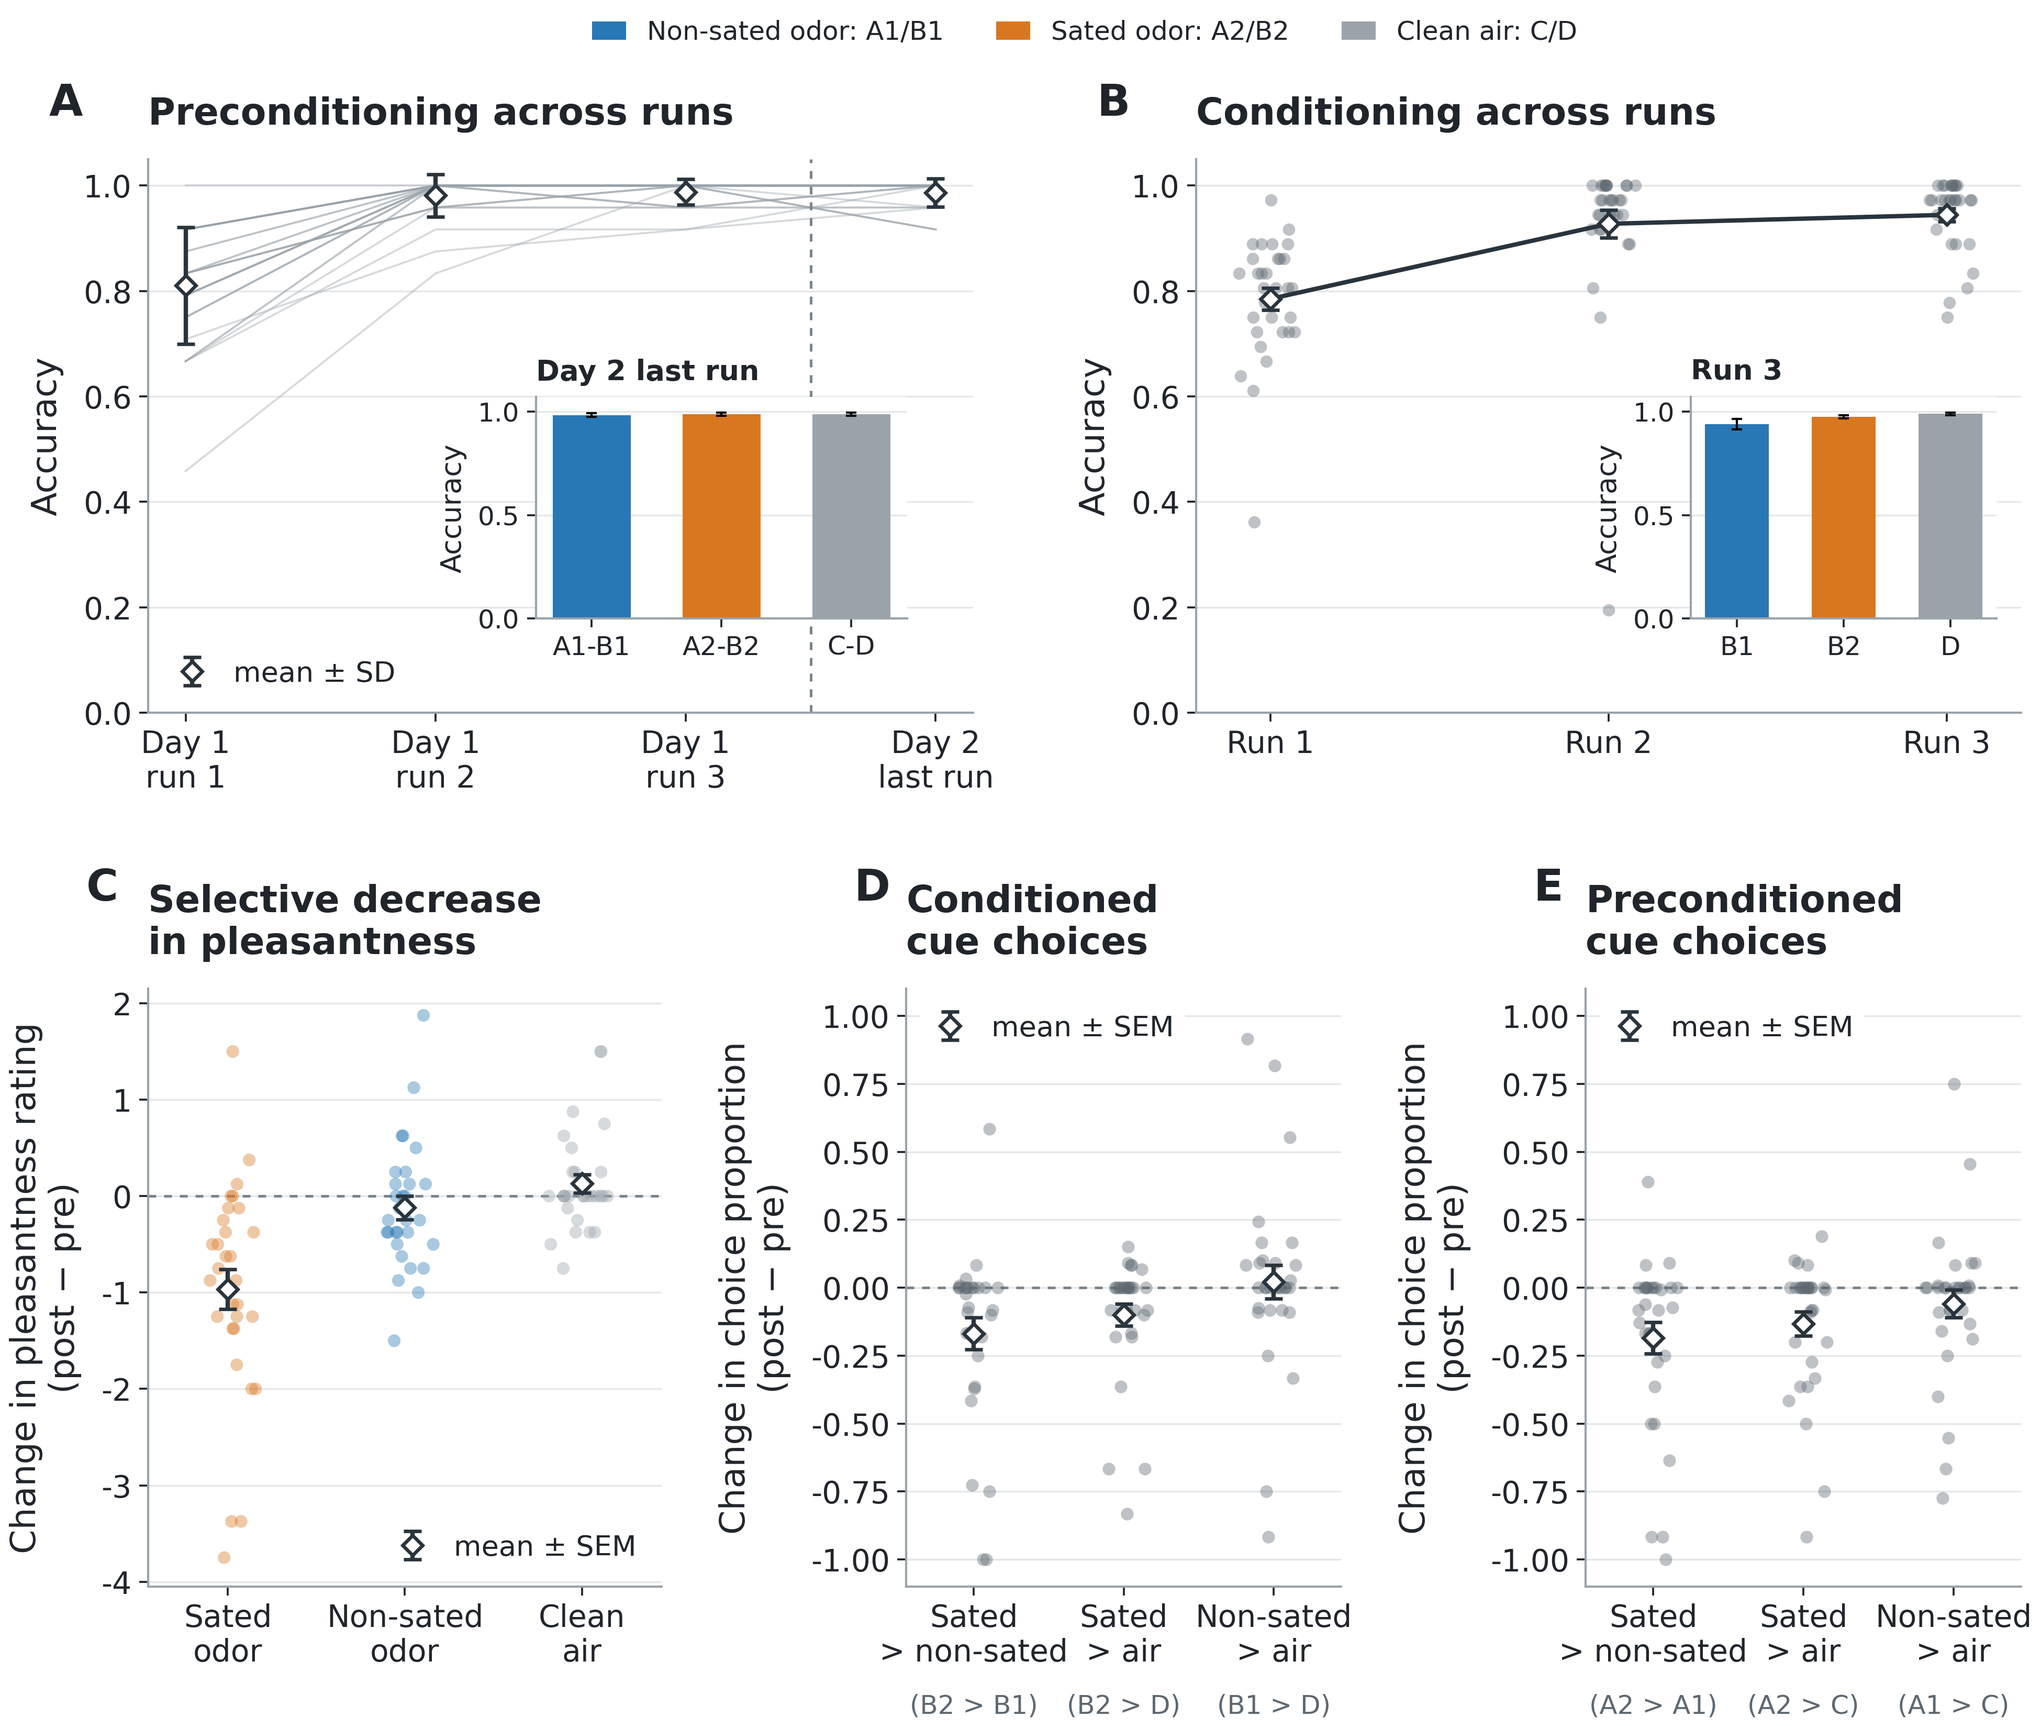
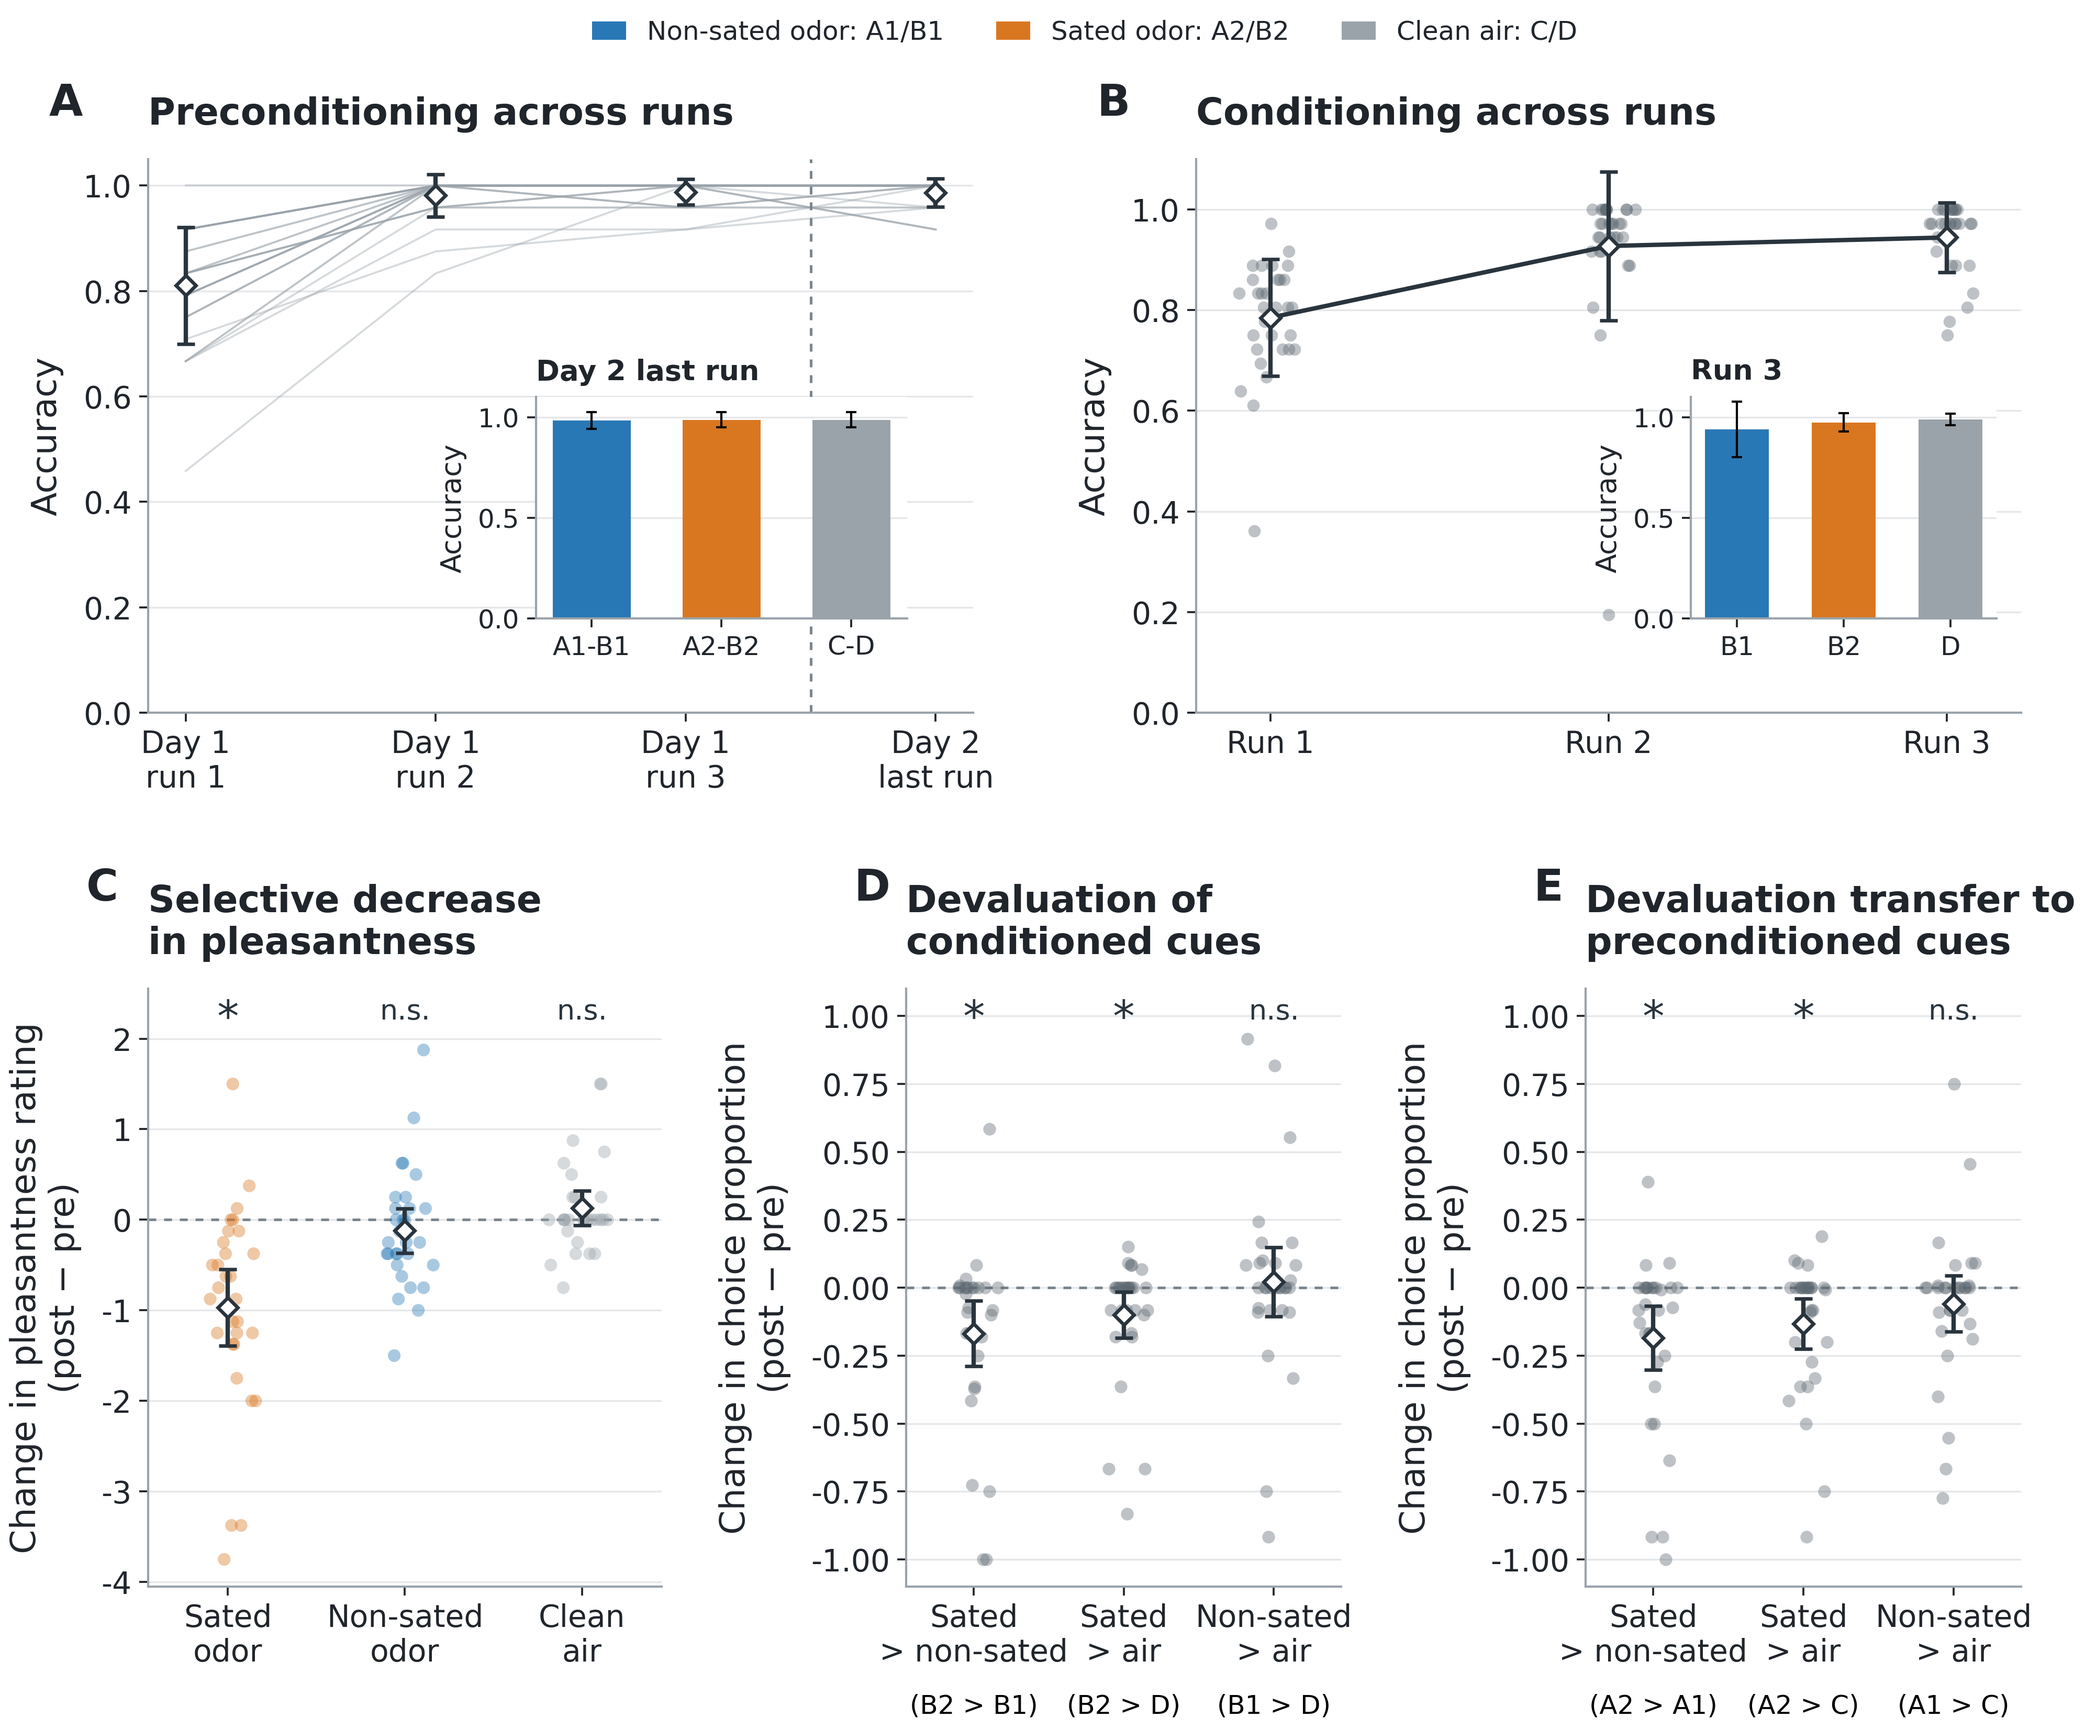
Clarify behavioral figure uncertainty and significance
Use SD bars for A/B and their insets, and t-based 95% confidence intervals with two-sided Wilcoxon markers for C-E. Add conceptual devaluation titles, darken cue-code labels, remove summary legends, and regenerate PNG/PDF exports.

diff --git a/scripts_behavior/make_behavior_figure.py b/scripts_behavior/make_behavior_figure.py
@@ -9,7 +9,8 @@ The calculations follow analyze_precond.ipynb (A), analyze_conditioning.ipynb
 19, 31, and 33 are excluded before aggregation. Missing pleasantness files
 are reported separately; they do not remove subjects from other panels.
 
-A displays mean +/- SD; its inset and all other panels display mean +/- SEM.
+Panels A/B and their insets display mean +/- SD.
+Panels C-E display means with t-based 95% confidence intervals.
 Day 2 preconditioning uses the notebook's final-run correction (run 7 takes
 precedence over run 6; both are recoded to run 1). The preconditioning inset
 averages the two pairs within each pair group with equal weight. Conditioning
@@ -23,6 +24,9 @@ sated (A2/B2), gray = clean air (C/D). They do not encode learning route.
 Panels D/E use neutral points and descriptive comparison labels, retaining
 the analysis cue codes underneath. Negative changes indicate reduced choice
 of the cue named before ">", independently of stimulus presentation order.
+Panels C-E annotate two-sided Wilcoxon signed-rank tests of post-minus-pre
+changes against zero: * denotes uncorrected p < 0.05; otherwise n.s.
+Changes are rounded to 12 decimal places for ranks to preserve numerical ties.
 """
 
 from __future__ import annotations
@@ -44,10 +48,11 @@ import matplotlib.pyplot as plt
 from matplotlib.patches import Patch
 import numpy as np
 import pandas as pd
+from scipy import stats
 
 sys.path.insert(0, str(Path(__file__).resolve().parents[1]))
 from figure_style import (
-    INSET_LABEL_SIZE, INSET_TICK_SIZE, MUTED_TEXT_COLOR, REFERENCE_COLOR,
+    INSET_LABEL_SIZE, INSET_TICK_SIZE, MUTED_TEXT_COLOR, NOTE_SIZE, REFERENCE_COLOR,
     SPINE_COLOR, SUMMARY_COLOR, add_panel_header, configure_matplotlib, style_axis,
 )
 
@@ -176,40 +181,67 @@ def _summary(data: pd.DataFrame, order: tuple) -> pd.DataFrame:
     return data.groupby("category")["value"].agg(["count", "mean", "std", "sem"]).loc[list(order)]
 
 
+def _change_tests(data: pd.DataFrame, order: tuple) -> pd.DataFrame:
+    """Test each category's paired change against zero, without correction."""
+    results = []
+    for category in order:
+        values = data.loc[data["category"].eq(category), "value"].to_numpy(dtype=float)
+        # Subtraction can otherwise split ties in discrete choice proportions.
+        ranked_values = np.round(values, decimals=12)
+        if np.all(ranked_values == 0):
+            statistic, p_value = 0.0, 1.0
+        else:
+            result = stats.wilcoxon(ranked_values, alternative="two-sided")
+            statistic, p_value = float(result.statistic), float(result.pvalue)
+        if not np.isfinite(p_value):
+            raise ValueError(f"Nonfinite Wilcoxon p-value for category {category}")
+        results.append({
+            "category": category, "n": len(values), "W": statistic,
+            "p_uncorrected": p_value, "marker": "*" if p_value < 0.05 else "n.s.",
+        })
+    return pd.DataFrame(results).set_index("category")
+
+
 def _bar_inset(
     ax: plt.Axes, data: pd.DataFrame, order: tuple, title: str,
     *, outcome_order: tuple[int, ...],
 ) -> None:
     summary = _summary(data, order)
     x = np.arange(len(order))
-    ax.bar(x, summary["mean"], yerr=summary["sem"], width=0.6,
+    ax.bar(x, summary["mean"], yerr=summary["std"], width=0.6,
            color=[OUTCOME_COLORS[odor] for odor in outcome_order],
            capsize=2.5, error_kw={"elinewidth": 1})
-    ax.set(xticks=x, xticklabels=order, ylim=(0, 1.07), yticks=[0, 0.5, 1], ylabel="Accuracy")
+    ax.set(xticks=x, xticklabels=order, ylim=(0, 1.1), yticks=[0, 0.5, 1], ylabel="Accuracy")
     ax.set_title(title, loc="left", fontsize=INSET_LABEL_SIZE, pad=8)
     style_axis(ax, inset=True)
 
 
 def _plot_changes(
     ax: plt.Axes, data: pd.DataFrame, order: tuple, labels: tuple,
-    title: str, ylabel: str, ylim: tuple[float, float], *, legend_loc: str = "upper left",
+    title: str, ylabel: str, ylim: tuple[float, float], *,
     colors: dict | None = None,
 ) -> None:
     summary = _summary(data, order)
+    ci_half_width = stats.t.ppf(0.975, summary["count"] - 1) * summary["sem"]
     positions = data["category"].map({label: i for i, label in enumerate(order)}).to_numpy(dtype=float)
     jitter = np.random.default_rng(0).normal(0, 0.08, size=len(data))
     point_colors = data["category"].map(colors) if colors is not None else MUTED_TEXT_COLOR
     ax.scatter(positions + jitter, data["value"], color=point_colors, alpha=0.4,
                s=34, linewidths=0, zorder=2)
-    ax.errorbar(np.arange(len(order)), summary["mean"], yerr=summary["sem"],
+    ax.errorbar(np.arange(len(order)), summary["mean"], yerr=ci_half_width,
                 fmt="D", color=SUMMARY_COLOR, markersize=6.5, capsize=4,
                 markerfacecolor="white", markeredgecolor=SUMMARY_COLOR, markeredgewidth=1.6,
-                linewidth=2, label="mean ± SEM", zorder=3)
+                linewidth=2, zorder=3)
+    tests = _change_tests(data, order)
+    for x, category in enumerate(order):
+        marker = tests.loc[category, "marker"]
+        ax.text(x, 0.985, marker, transform=ax.get_xaxis_transform(),
+                ha="center", va="top", fontsize=20 if marker == "*" else NOTE_SIZE,
+                color=SUMMARY_COLOR)
     ax.axhline(0, color=REFERENCE_COLOR, linestyle=(0, (3, 3)), linewidth=1.2, zorder=1)
     ax.set(xticks=np.arange(len(order)), xticklabels=labels, ylabel=ylabel,
            ylim=ylim, xlim=(-0.45, len(order) - 0.55))
     ax.set_title(title, loc="left", pad=16)
-    ax.legend(loc=legend_loc)
 
 
 def make_figure(data: dict[str, pd.DataFrame]) -> plt.Figure:
@@ -228,13 +260,11 @@ def make_figure(data: dict[str, pd.DataFrame]) -> plt.Figure:
     summary = _summary(data["A"], (1, 2, 3, 4))
     a.errorbar([1, 2, 3, 4], summary["mean"], yerr=summary["std"], fmt="D",
                color=SUMMARY_COLOR, markersize=6.5, capsize=4, linewidth=2,
-               markerfacecolor="white", markeredgecolor=SUMMARY_COLOR, markeredgewidth=1.6,
-               label="mean ± SD")
+               markerfacecolor="white", markeredgecolor=SUMMARY_COLOR, markeredgewidth=1.6)
     a.axvline(3.5, color=REFERENCE_COLOR, linestyle=(0, (3, 3)), linewidth=1.2)
     a.set(xticks=[1, 2, 3, 4], xticklabels=["Day 1\nrun 1", "Day 1\nrun 2", "Day 1\nrun 3", "Day 2\nlast run"],
           ylim=(0, 1.05), xlim=(0.85, 4.15), ylabel="Accuracy")
     a.set_title("Preconditioning across runs", loc="left", pad=16)
-    a.legend(loc="lower left")
     _bar_inset(a.inset_axes([0.47, 0.17, 0.45, 0.40]), data["A inset"],
                ("A1-B1", "A2-B2", "C-D"), "Day 2 last run", outcome_order=(1, 2, 0))
 
@@ -242,21 +272,21 @@ def make_figure(data: dict[str, pd.DataFrame]) -> plt.Figure:
     jitter = np.random.default_rng(0).normal(0, 0.04, size=len(data["B"]))
     b.scatter(data["B"]["category"] + jitter, data["B"]["value"], color=MUTED_TEXT_COLOR,
                alpha=0.4, s=32, linewidths=0)
-    b.errorbar([1, 2, 3], summary["mean"], yerr=summary["sem"], fmt="D-",
+    b.errorbar([1, 2, 3], summary["mean"], yerr=summary["std"], fmt="D-",
                color=SUMMARY_COLOR, markersize=6.5, capsize=4, linewidth=2,
                markerfacecolor="white", markeredgecolor=SUMMARY_COLOR, markeredgewidth=1.6)
     b.set(xticks=[1, 2, 3], xticklabels=["Run 1", "Run 2", "Run 3"],
-          ylim=(0, 1.05), xlim=(0.78, 3.22), ylabel="Accuracy")
+          ylim=(0, 1.1), xlim=(0.78, 3.22), ylabel="Accuracy")
     b.set_title("Conditioning across runs", loc="left", pad=16)
     _bar_inset(b.inset_axes([0.60, 0.17, 0.37, 0.40]), data["B inset"],
                ("B1", "B2", "D"), "Run 3", outcome_order=(1, 2, 0))
 
     _plot_changes(c, data["C"], (2, 1, 0), ("Sated\nodor", "Non-sated\nodor", "Clean\nair"),
                   "Selective decrease\nin pleasantness", "Change in pleasantness rating\n(post − pre)",
-                  (-4.05, 2.15), legend_loc="lower right", colors=OUTCOME_COLORS)
+                  (-4.05, 2.55), colors=OUTCOME_COLORS)
     for ax, letter, order, title in (
-        (d, "D", CONDITIONED_CHOICES, "Conditioned\ncue choices"),
-        (e, "E", PRECONDITIONED_CHOICES, "Preconditioned\ncue choices"),
+        (d, "D", CONDITIONED_CHOICES, "Devaluation of\nconditioned cues"),
+        (e, "E", PRECONDITIONED_CHOICES, "Devaluation transfer to\npreconditioned cues"),
     ):
         _plot_changes(ax, data[letter], order, COMPARISON_LABELS, title,
                       "Change in choice proportion\n(post − pre)", (-1.1, 1.1))
@@ -268,7 +298,7 @@ def make_figure(data: dict[str, pd.DataFrame]) -> plt.Figure:
                 xy=(x, 0), xycoords=ax.get_xaxis_transform(),
                 xytext=(0, -49), textcoords="offset points",
                 ha="center", va="top", fontsize=INSET_TICK_SIZE,
-                color=MUTED_TEXT_COLOR, annotation_clip=False,
+                color="black", annotation_clip=False,
             )
     for ax, letter in zip(axes, "ABCDE"):
         style_axis(ax)
@@ -302,6 +332,9 @@ def main() -> None:
     for panel, table in data.items():
         print(f"\nPanel {panel} (subject-level observations):")
         print(_summary(table, tuple(table["category"].unique())).to_string(float_format=lambda x: f"{x:.6f}"))
+    for panel, order in (("C", (2, 1, 0)), ("D", CONDITIONED_CHOICES), ("E", PRECONDITIONED_CHOICES)):
+        print(f"\nPanel {panel}: two-sided Wilcoxon change vs zero (uncorrected)")
+        print(_change_tests(data[panel], order).to_string(float_format=lambda x: f"{x:.8f}"))
     fig = make_figure(data)
     output_prefix.parent.mkdir(parents=True, exist_ok=True)
     for extension in dict.fromkeys(args.formats):
